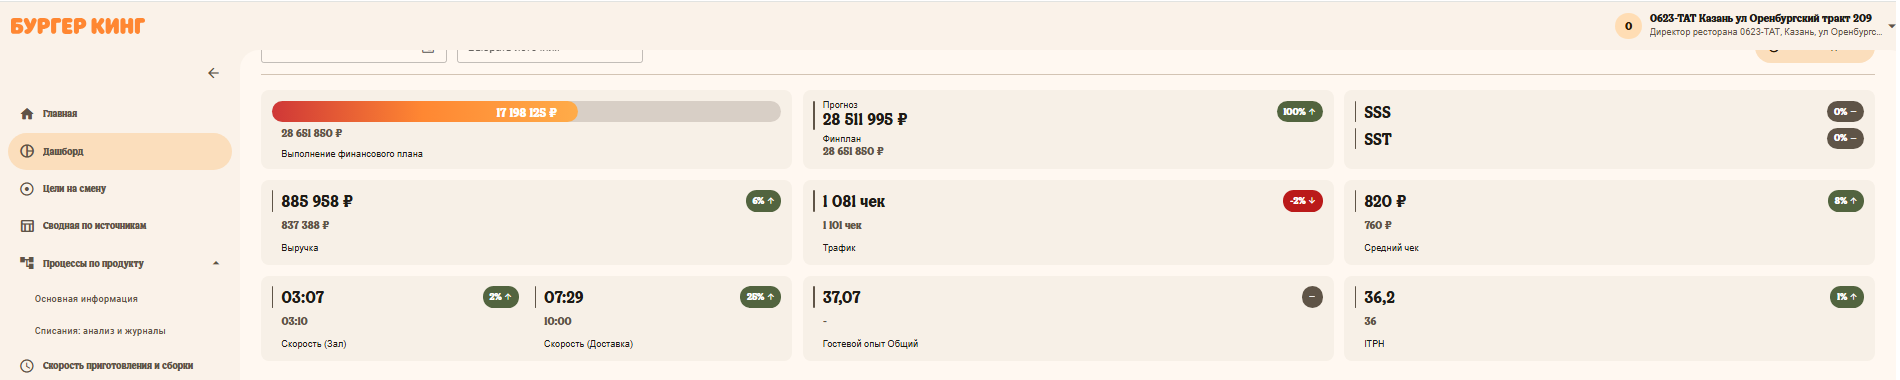
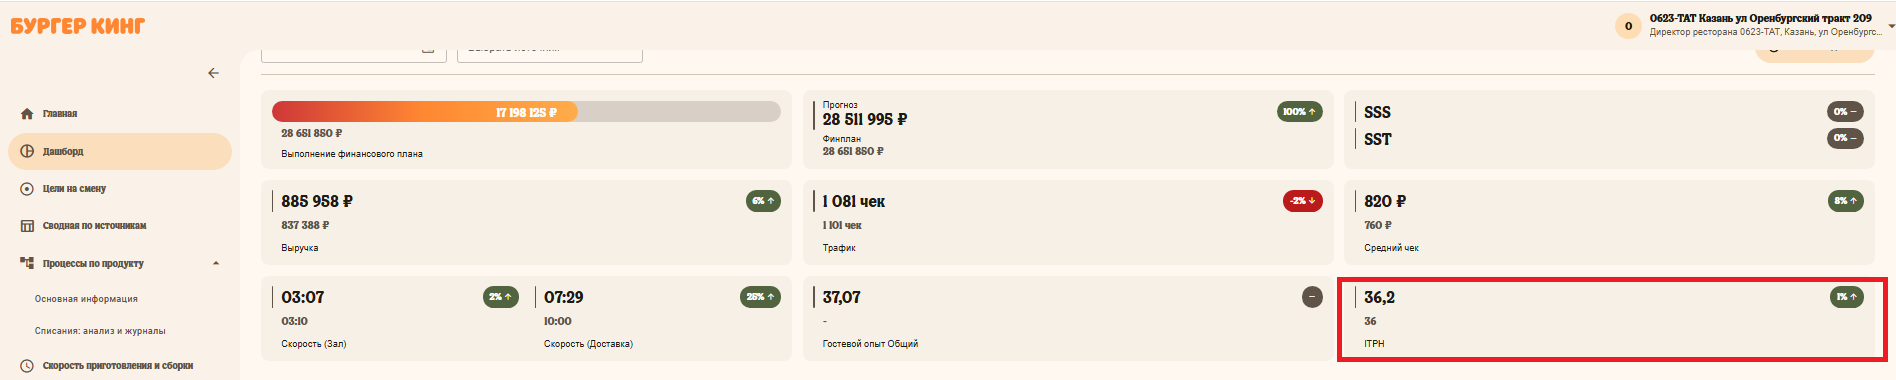
Update ITPH screenshots and two-attempt quizzes

diff --git a/script.js b/script.js
@@ -575,6 +575,14 @@ const TEST_BY_FEEDBACK = {
   'control-feedback': 'control',
 };
 
+const FIRST_ATTEMPT_HINTS = {
+  'calc-feedback': 'Вспомни формулу: количество блюд нужно разделить на часы сотрудников.',
+  'control-feedback': 'Сначала определи, на каком этапе замедлился поток Гостей.',
+  'case-feedback-1': 'Сравни несколько часов и учти ожидаемый поток Гостей.',
+  'case-feedback-2': 'Сначала найди западающую зону, затем выбирай действие.',
+  'case-feedback-3': 'Начни с конкретной причины недовольства Гостя.',
+};
+
 function completeTest(testName) {
   if (!testName || completedTests.has(testName)) return;
   completedTests.add(testName);
@@ -586,18 +594,34 @@ function completeTest(testName) {
 function answerChoice(btn, isCorrect, feedbackId) {
   const group = btn.parentElement;
   const feedback = document.getElementById(feedbackId);
-  if (!feedback || btn.disabled) return;
+  if (!feedback || btn.disabled) return false;
+  const attempts = Number(group.dataset.attempts || 0);
   if (isCorrect) {
     completeTest(TEST_BY_FEEDBACK[feedbackId]);
     btn.classList.add('correct-choice');
     group.querySelectorAll('button').forEach(item => { item.disabled = true; });
     feedback.className = 'feedback-box show correct';
     feedback.innerHTML = '<strong>Верно.</strong> ' + (btn.dataset.success || 'Ты выбрал действие, которое связано с причиной отклонения.');
-  } else {
-    btn.classList.add('wrong-choice');
+    return true;
+  }
+
+  group.dataset.attempts = String(attempts + 1);
+  btn.classList.add('wrong-choice');
+  if (attempts === 0) {
     feedback.className = 'feedback-box show incorrect';
-    feedback.innerHTML = '<strong>Пока нет.</strong> ' + (btn.dataset.feedback || 'Сначала сопоставь ITPH с тем, что происходит на смене. Затем выбери действие по причине.');
+    feedback.innerHTML = '<strong>Попробуй ещё раз.</strong> ' + (FIRST_ATTEMPT_HINTS[feedbackId] || 'Сопоставь показатель с ситуацией на смене.');
     setTimeout(() => btn.classList.remove('wrong-choice'), 700);
+    return false;
+  } else {
+    const correctBtn = [...group.querySelectorAll('button')].find(item => item.getAttribute('onclick')?.includes(', true,'));
+    const correctReason = (correctBtn?.dataset.success || 'Этот вариант помогает устранить причину ситуации.').replace(/^Верно[.:]?\s*/i, '');
+    correctBtn?.classList.add('correct-choice');
+    group.querySelectorAll('button').forEach(item => { item.disabled = true; });
+    completeTest(TEST_BY_FEEDBACK[feedbackId]);
+    feedback.className = 'feedback-box show incorrect';
+    feedback.innerHTML = '<strong>Разбор ответа.</strong> ' + (btn.dataset.feedback || 'Этот вариант не устраняет причину ситуации.') +
+      '<br><strong>Верный ответ: «' + (correctBtn?.textContent.trim() || '') + '».</strong> ' + correctReason;
+    return true;
   }
 }
 
@@ -692,8 +716,8 @@ function flipMistake(btn) {
 const practiceSolved = new Set();
 
 function answerCase(btn, isCorrect, feedbackId) {
-  answerChoice(btn, isCorrect, feedbackId);
-  if (!isCorrect) return;
+  const completed = answerChoice(btn, isCorrect, feedbackId);
+  if (!completed) return;
   practiceSolved.add(feedbackId);
   const result = document.getElementById('practice-result');
   if (!result) return;
@@ -703,6 +727,23 @@ function answerCase(btn, isCorrect, feedbackId) {
     : 'Осталось разобрать кейсов: ' + (3 - done) + '.';
   result.innerHTML = '<span>' + done + ' / 3</span><p>' + message + '</p>';
   if (done === 3) completeTest('practice');
+}
+
+function openScreenshot(button) {
+  const source = button.querySelector('img');
+  const dialog = document.getElementById('screenshot-dialog');
+  const image = document.getElementById('screenshot-dialog-image');
+  if (!source || !dialog || !image) return;
+  image.src = source.currentSrc || source.src;
+  image.alt = source.alt;
+  dialog.showModal();
+}
+
+function closeScreenshot(event) {
+  const dialog = document.getElementById('screenshot-dialog');
+  if (!dialog) return;
+  if (event && event.target !== dialog) return;
+  dialog.close();
 }
 
 

diff --git a/index.html b/index.html
@@ -8,7 +8,7 @@
   <title>Как работать с ITPH на смене</title>
   <link rel="stylesheet" href="css/kuds.css">
   <link rel="stylesheet" href="style.css">
-  <link rel="stylesheet" href="css/ms-lyudi.css?v=20260917-5">
+  <link rel="stylesheet" href="css/ms-lyudi.css?v=20260917-6">
 </head>
 <body>
   <nav id="top-nav" aria-label="Навигация по курсу">
@@ -74,8 +74,8 @@
 
         <div class="body-copy fade-in"><p>ITPH — следствие того, как организована смена.</p><p>Если он ниже цели, часов сотрудников может быть больше, чем нужно при текущем потоке. Если выше — команда может быть перегружена.</p><p>Цель по ITPH ты можешь узнать у директора, а также в программах Brave&amp;Bold и WFM.</p></div>
         <div class="target-screens fade-in" aria-label="Где найти цель по ITPH">
-          <figure class="target-screen" id="target-screen-bnb"><img src="assets/images/itph-brave-bold-crop.png" alt="Показатель ITPH на дашборде Brave&amp;Bold"><figcaption><b>Brave&amp;Bold</b> — ITPH на дашборде</figcaption></figure>
-          <figure class="target-screen" id="target-screen-wfm"><img src="assets/images/itph-wfm-crop.png" alt="Целевой и плановый ITPH в расписании WFM"><figcaption><b>WFM</b> — целевой и плановый ITPH</figcaption></figure>
+          <figure class="target-screen" id="target-screen-bnb"><button class="screenshot-zoom" type="button" onclick="openScreenshot(this)" aria-label="Увеличить скриншот Brave&amp;Bold"><img src="assets/images/itph-brave-bold-crop.png?v=20260917-6" alt="Показатель ITPH на дашборде Brave&amp;Bold"><span>Увеличить ↗</span></button><figcaption><b>Brave&amp;Bold</b> — ITPH на дашборде</figcaption></figure>
+          <figure class="target-screen" id="target-screen-wfm"><button class="screenshot-zoom" type="button" onclick="openScreenshot(this)" aria-label="Увеличить скриншот WFM"><img src="assets/images/itph-wfm-crop.png?v=20260917-6" alt="Целевой и плановый ITPH в расписании WFM"><span>Увеличить ↗</span></button><figcaption><b>WFM</b> — целевой и плановый ITPH</figcaption></figure>
         </div>
         <p class="target-caption fade-in">Даже у ресторанов одного формата цели могут различаться: они зависят от категории ресторана и применимых нормативов труда.</p>
         <div class="route-intro fade-in"><strong>Чтобы принять решение на смене, используй три действия</strong></div>
@@ -340,6 +340,11 @@
 
   </main>
 
-  <script src="script.js?v=20260917-5"></script>
+  <dialog class="screenshot-dialog" id="screenshot-dialog" onclick="closeScreenshot(event)">
+    <button class="screenshot-dialog-close" type="button" onclick="closeScreenshot()" aria-label="Закрыть увеличенный скриншот">×</button>
+    <img id="screenshot-dialog-image" src="" alt="">
+  </dialog>
+
+  <script src="script.js?v=20260917-6"></script>
 </body>
 </html>

diff --git a/css/ms-lyudi.css b/css/ms-lyudi.css
@@ -842,10 +842,17 @@ input:focus-visible {
 
 .target-screens { display: grid; grid-template-columns: repeat(2, minmax(0, 1fr)); gap: 12px; }
 .target-screen { margin: 0; overflow: hidden; border: var(--ku-border-w) solid var(--ku-border); border-radius: var(--ku-radius-m); background: var(--ku-card); box-shadow: var(--ku-shadow-s); }
-.target-screen img { display: block; width: 100%; aspect-ratio: 5 / 2; object-fit: cover; object-position: left top; }
+.screenshot-zoom { position: relative; display: block; width: 100%; padding: 0; border: 0; background: transparent; cursor: zoom-in; }
+.screenshot-zoom img { display: block; width: 100%; aspect-ratio: 5 / 2; object-fit: cover; object-position: left top; }
+.screenshot-zoom span { position: absolute; right: 0.65rem; bottom: 0.65rem; padding: 0.45rem 0.7rem; border-radius: var(--ku-radius-pill); color: var(--ku-text-on-dark); background: color-mix(in srgb, var(--ku-text) 86%, transparent); font-size: 0.78rem; font-weight: 750; }
+.screenshot-zoom:hover span { background: var(--ku-brand-strong); }
 .target-screen figcaption { padding: 0.8rem 1rem; font-size: 0.86rem; color: var(--ku-text-soft); }
 .target-screen figcaption b { color: var(--ku-text); }
 .target-caption { margin: -0.25rem 0 0; color: var(--ku-text-soft); font-size: 0.9rem; line-height: 1.5; }
+.screenshot-dialog { width: min(96vw, 92rem); max-width: none; padding: 0; border: 0; border-radius: var(--ku-radius-l); background: var(--ku-card); box-shadow: var(--ku-shadow-l); }
+.screenshot-dialog::backdrop { background: rgba(20, 12, 9, 0.82); backdrop-filter: blur(4px); }
+.screenshot-dialog img { display: block; width: 100%; height: auto; }
+.screenshot-dialog-close { position: sticky; float: right; top: 0.75rem; z-index: 2; width: 2.75rem; height: 2.75rem; margin: 0.75rem; border: 0; border-radius: 50%; color: var(--ku-text-on-dark); background: var(--ku-text); font-size: 1.6rem; line-height: 1; cursor: pointer; }
 .deviation-map { padding: var(--ku-space-l); border: var(--ku-border-w) solid var(--ku-border); border-radius: var(--ku-radius-l); background: var(--ku-card); box-shadow: var(--ku-shadow-s); }
 .deviation-map-title { display: flex; gap: 0.75rem; align-items: center; margin-bottom: var(--ku-space-m); }
 .deviation-map-title span { padding: 0.35rem 0.65rem; border-radius: var(--ku-radius-pill); color: var(--ku-brand-on); background: var(--ku-brand); font-size: 0.75rem; font-weight: 800; text-transform: uppercase; }
@@ -1035,7 +1042,7 @@ input:focus-visible {
   @page { size: A4; margin: 12mm; }
   html, body { background: #fff !important; print-color-adjust: exact; -webkit-print-color-adjust: exact; }
   body { padding-top: 0 !important; }
-  #top-nav, .next-row, .completion-panel, .interaction-cue, .interaction-hint { display: none !important; }
+  #top-nav, .next-row, .completion-panel, .interaction-cue, .interaction-hint, .screenshot-dialog { display: none !important; }
   .page, .page.active { display: block !important; min-height: 0; }
   .page:not(#page-home) { break-before: page; }
   .fade-in { opacity: 1 !important; transform: none !important; }
